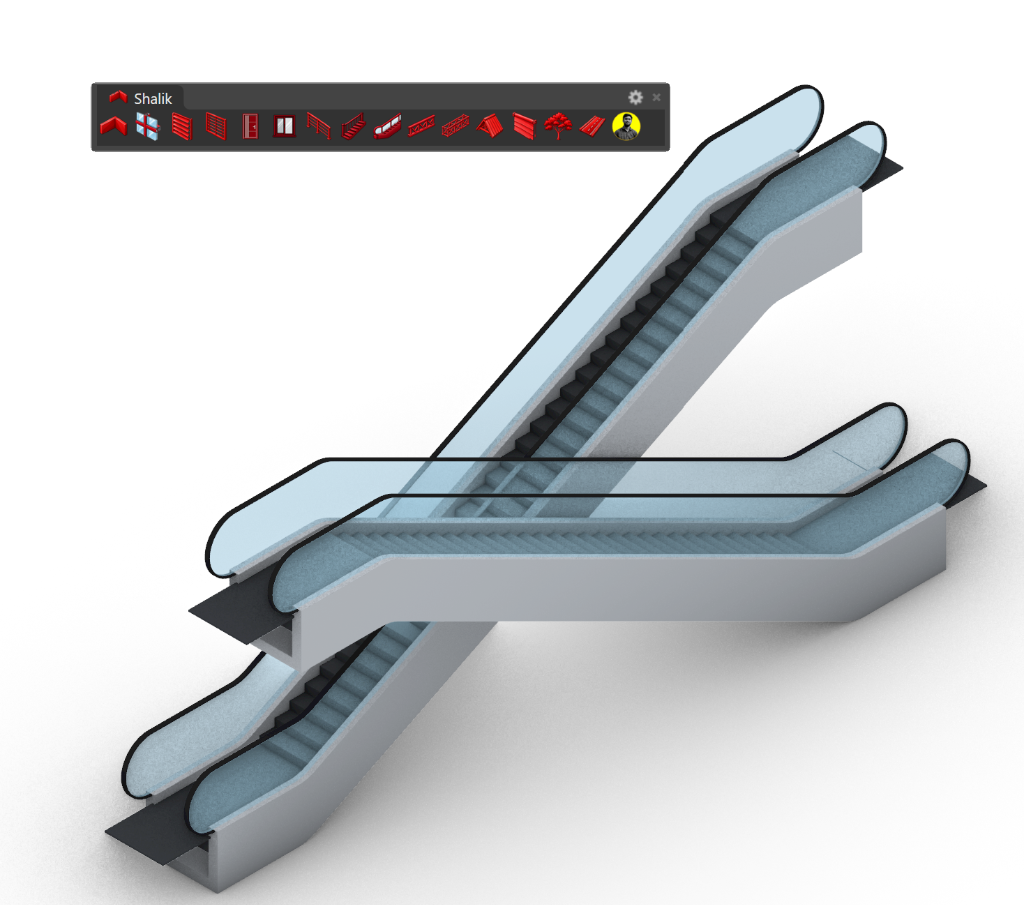
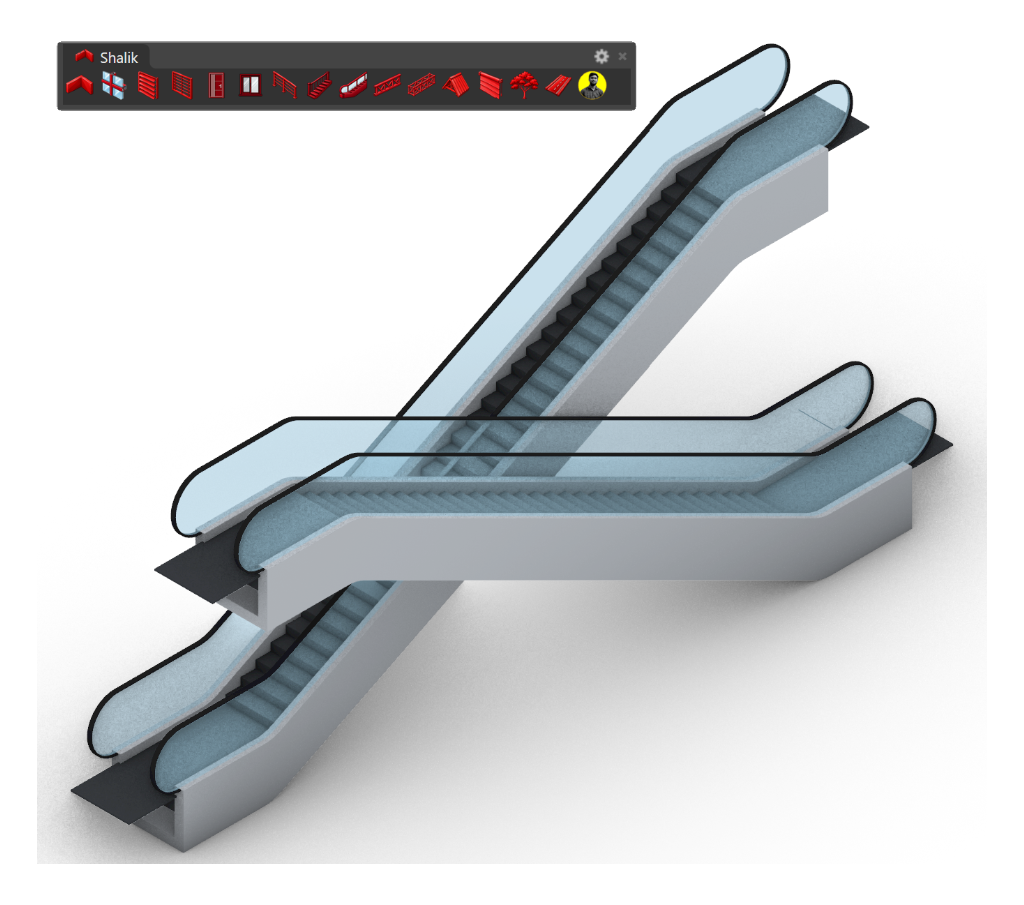
Center align 3D showcase slider: middle-aligned navigation tabs, HUD title, centered escalator render, and floating zoom pill

diff --git a/docs/index.html b/docs/index.html
@@ -1088,25 +1088,38 @@
             box-shadow: 0 20px 50px rgba(0,0,0,0.6);
         }
         .slider-header-bar {
-            padding: 14px 24px;
+            padding: 16px 24px;
             background: var(--bg-surface-elevated);
             border-bottom: 1px solid var(--border-line);
             display: flex;
+            flex-direction: column;
             align-items: center;
-            justify-content: space-between;
-            flex-wrap: wrap;
+            justify-content: center;
+            text-align: center;
             gap: 12px;
+        }
+        .slider-header-bar .hud-label {
+            display: flex;
+            align-items: center;
+            justify-content: center;
+            flex-wrap: wrap;
+            gap: 8px;
+            width: 100%;
+            text-align: center;
         }
         .slider-tabs-nav {
             display: flex;
             gap: 8px;
             flex-wrap: wrap;
+            justify-content: center;
+            align-items: center;
+            width: 100%;
         }
         .slider-tab-btn {
             background: transparent;
             color: var(--ink-secondary);
             border: 1px solid var(--border-line);
-            padding: 6px 14px;
+            padding: 7px 16px;
             border-radius: 6px;
             font-family: var(--font-mono);
             font-size: 0.75rem;
@@ -1114,17 +1127,21 @@
             letter-spacing: 0.08em;
             cursor: pointer;
             transition: all 0.2s ease;
+            display: inline-flex;
+            align-items: center;
+            justify-content: center;
         }
         .slider-tab-btn:hover {
             color: #ffffff;
             border-color: var(--border-line-hover);
             background: rgba(255,255,255,0.03);
+            transform: translateY(-1px);
         }
         .slider-tab-btn.active {
             color: #ffffff;
             background: var(--bg-surface);
             border-color: var(--accent-crimson-bright);
-            box-shadow: 0 0 10px rgba(211, 47, 47, 0.3);
+            box-shadow: 0 0 10px rgba(211, 47, 47, 0.35);
         }
 
         .slider-viewport {
@@ -1135,6 +1152,32 @@
             display: flex;
             align-items: center;
             justify-content: center;
+            text-align: center;
+        }
+        .zoom-indicator-pill {
+            position: absolute;
+            top: 14px;
+            left: 50%;
+            transform: translateX(-50%);
+            background: rgba(14, 15, 17, 0.88);
+            backdrop-filter: blur(8px);
+            border: 1px solid rgba(255, 255, 255, 0.15);
+            color: #e6edf3;
+            font-family: var(--font-mono);
+            font-size: 0.7rem;
+            letter-spacing: 0.08em;
+            padding: 5px 14px;
+            border-radius: 20px;
+            display: inline-flex;
+            align-items: center;
+            gap: 6px;
+            pointer-events: none;
+            z-index: 10;
+            box-shadow: 0 4px 12px rgba(0, 0, 0, 0.35);
+            text-transform: uppercase;
+        }
+        .zoom-indicator-pill .ui-icon {
+            stroke: var(--accent-gold);
         }
         .slider-slide-item {
             position: absolute;
@@ -1142,11 +1185,13 @@
             display: flex;
             align-items: center;
             justify-content: center;
+            text-align: center;
             opacity: 0;
             visibility: hidden;
             transform: scale(0.98);
             transition: opacity 0.5s cubic-bezier(0.16, 1, 0.3, 1), transform 0.5s cubic-bezier(0.16, 1, 0.3, 1), visibility 0.5s;
             padding: 30px;
+            box-sizing: border-box;
         }
         .slider-slide-item.active {
             opacity: 1;
@@ -1160,6 +1205,8 @@
             object-fit: contain;
             cursor: zoom-in;
             transition: transform 0.3s ease;
+            margin: 0 auto;
+            display: block;
         }
         .slider-slide-item img:hover {
             transform: scale(1.02);
@@ -1246,6 +1293,21 @@
             justify-content: space-between;
             flex-wrap: wrap;
             gap: 16px;
+        }
+        @media (max-width: 900px) {
+            .slider-footer-bar {
+                flex-direction: column;
+                align-items: center;
+                justify-content: center;
+                text-align: center;
+            }
+            .slider-caption-text {
+                text-align: center;
+                max-width: 100%;
+            }
+            .slider-nav-actions {
+                justify-content: center;
+            }
         }
         .slider-caption-text {
             color: var(--ink-secondary);
@@ -1800,6 +1862,7 @@
 
             <div class="slider-header-bar">
                 <div class="hud-label">
+                    <span style="display:inline-block;width:6px;height:6px;border-radius:50%;background:var(--accent-crimson-bright);box-shadow:0 0 8px var(--accent-crimson-glow);margin-right:4px;"></span>
                     <span>RHINO 8 VIEWPORT CONDUIT</span>
                     <span style="color: var(--accent-gold); margin-left: 10px;" id="current-slide-label">SLIDE 01 // 6-LITE GLAZED CONTEMPORARY DOOR</span>
                 </div>
